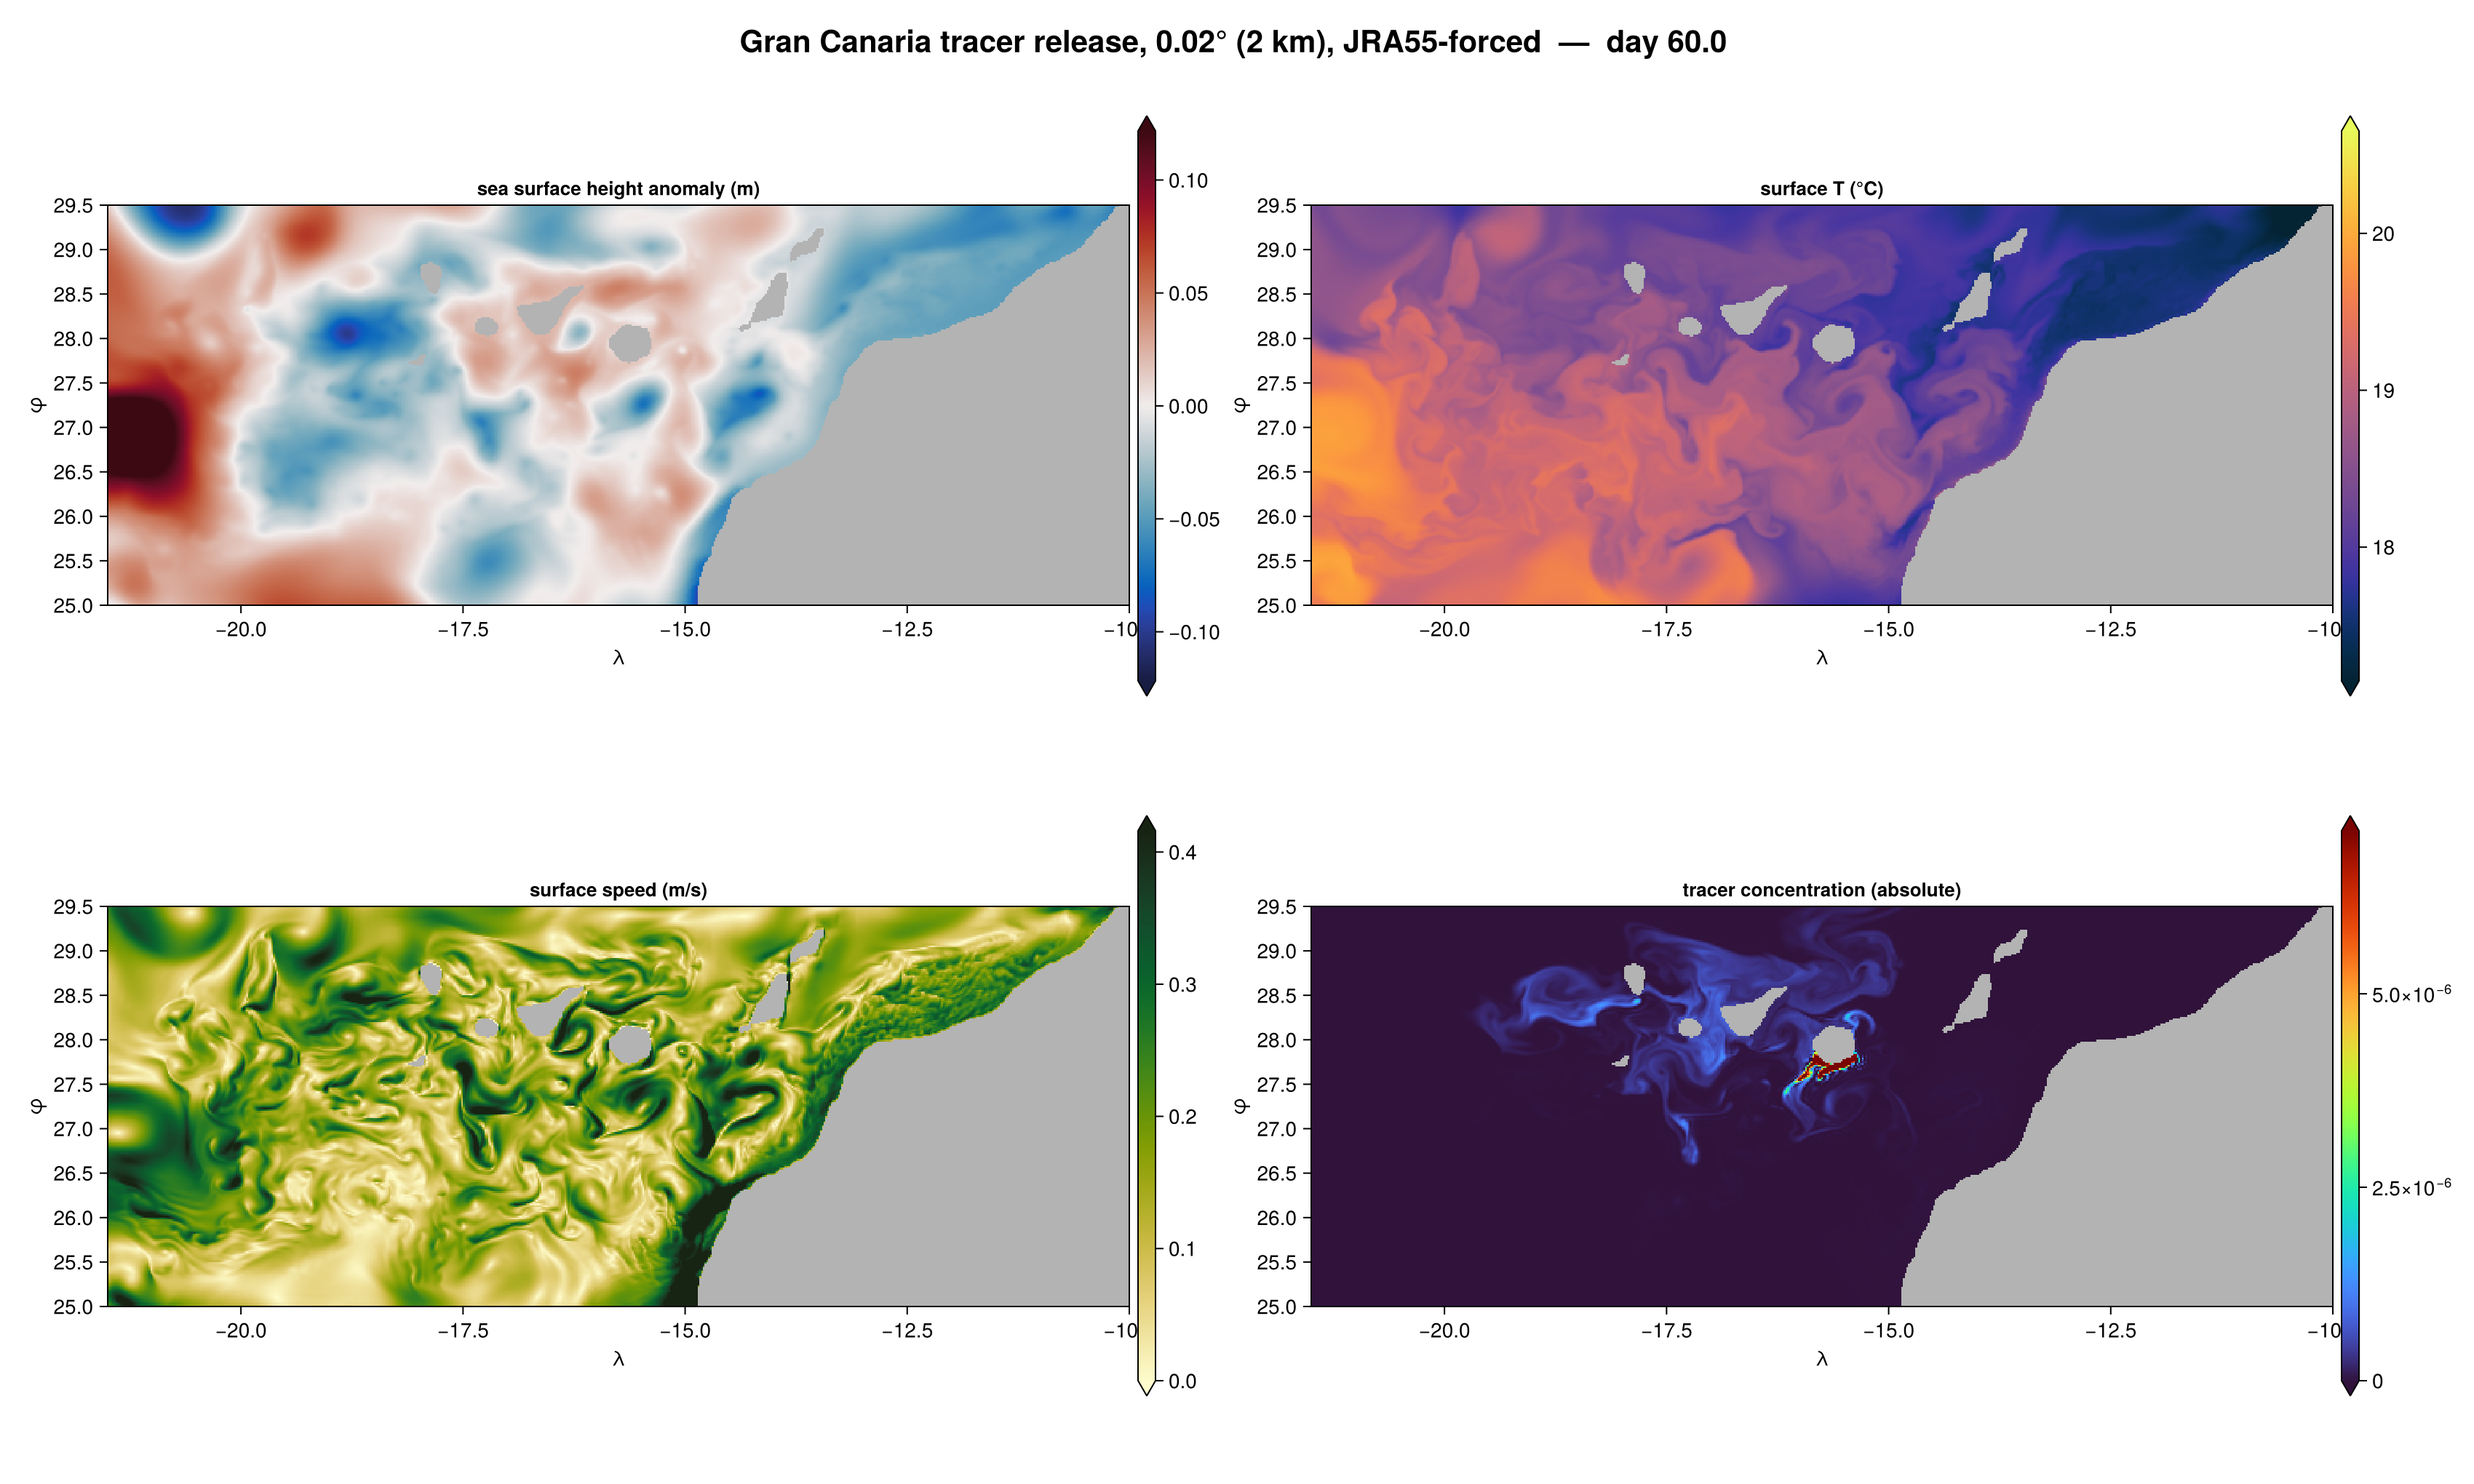
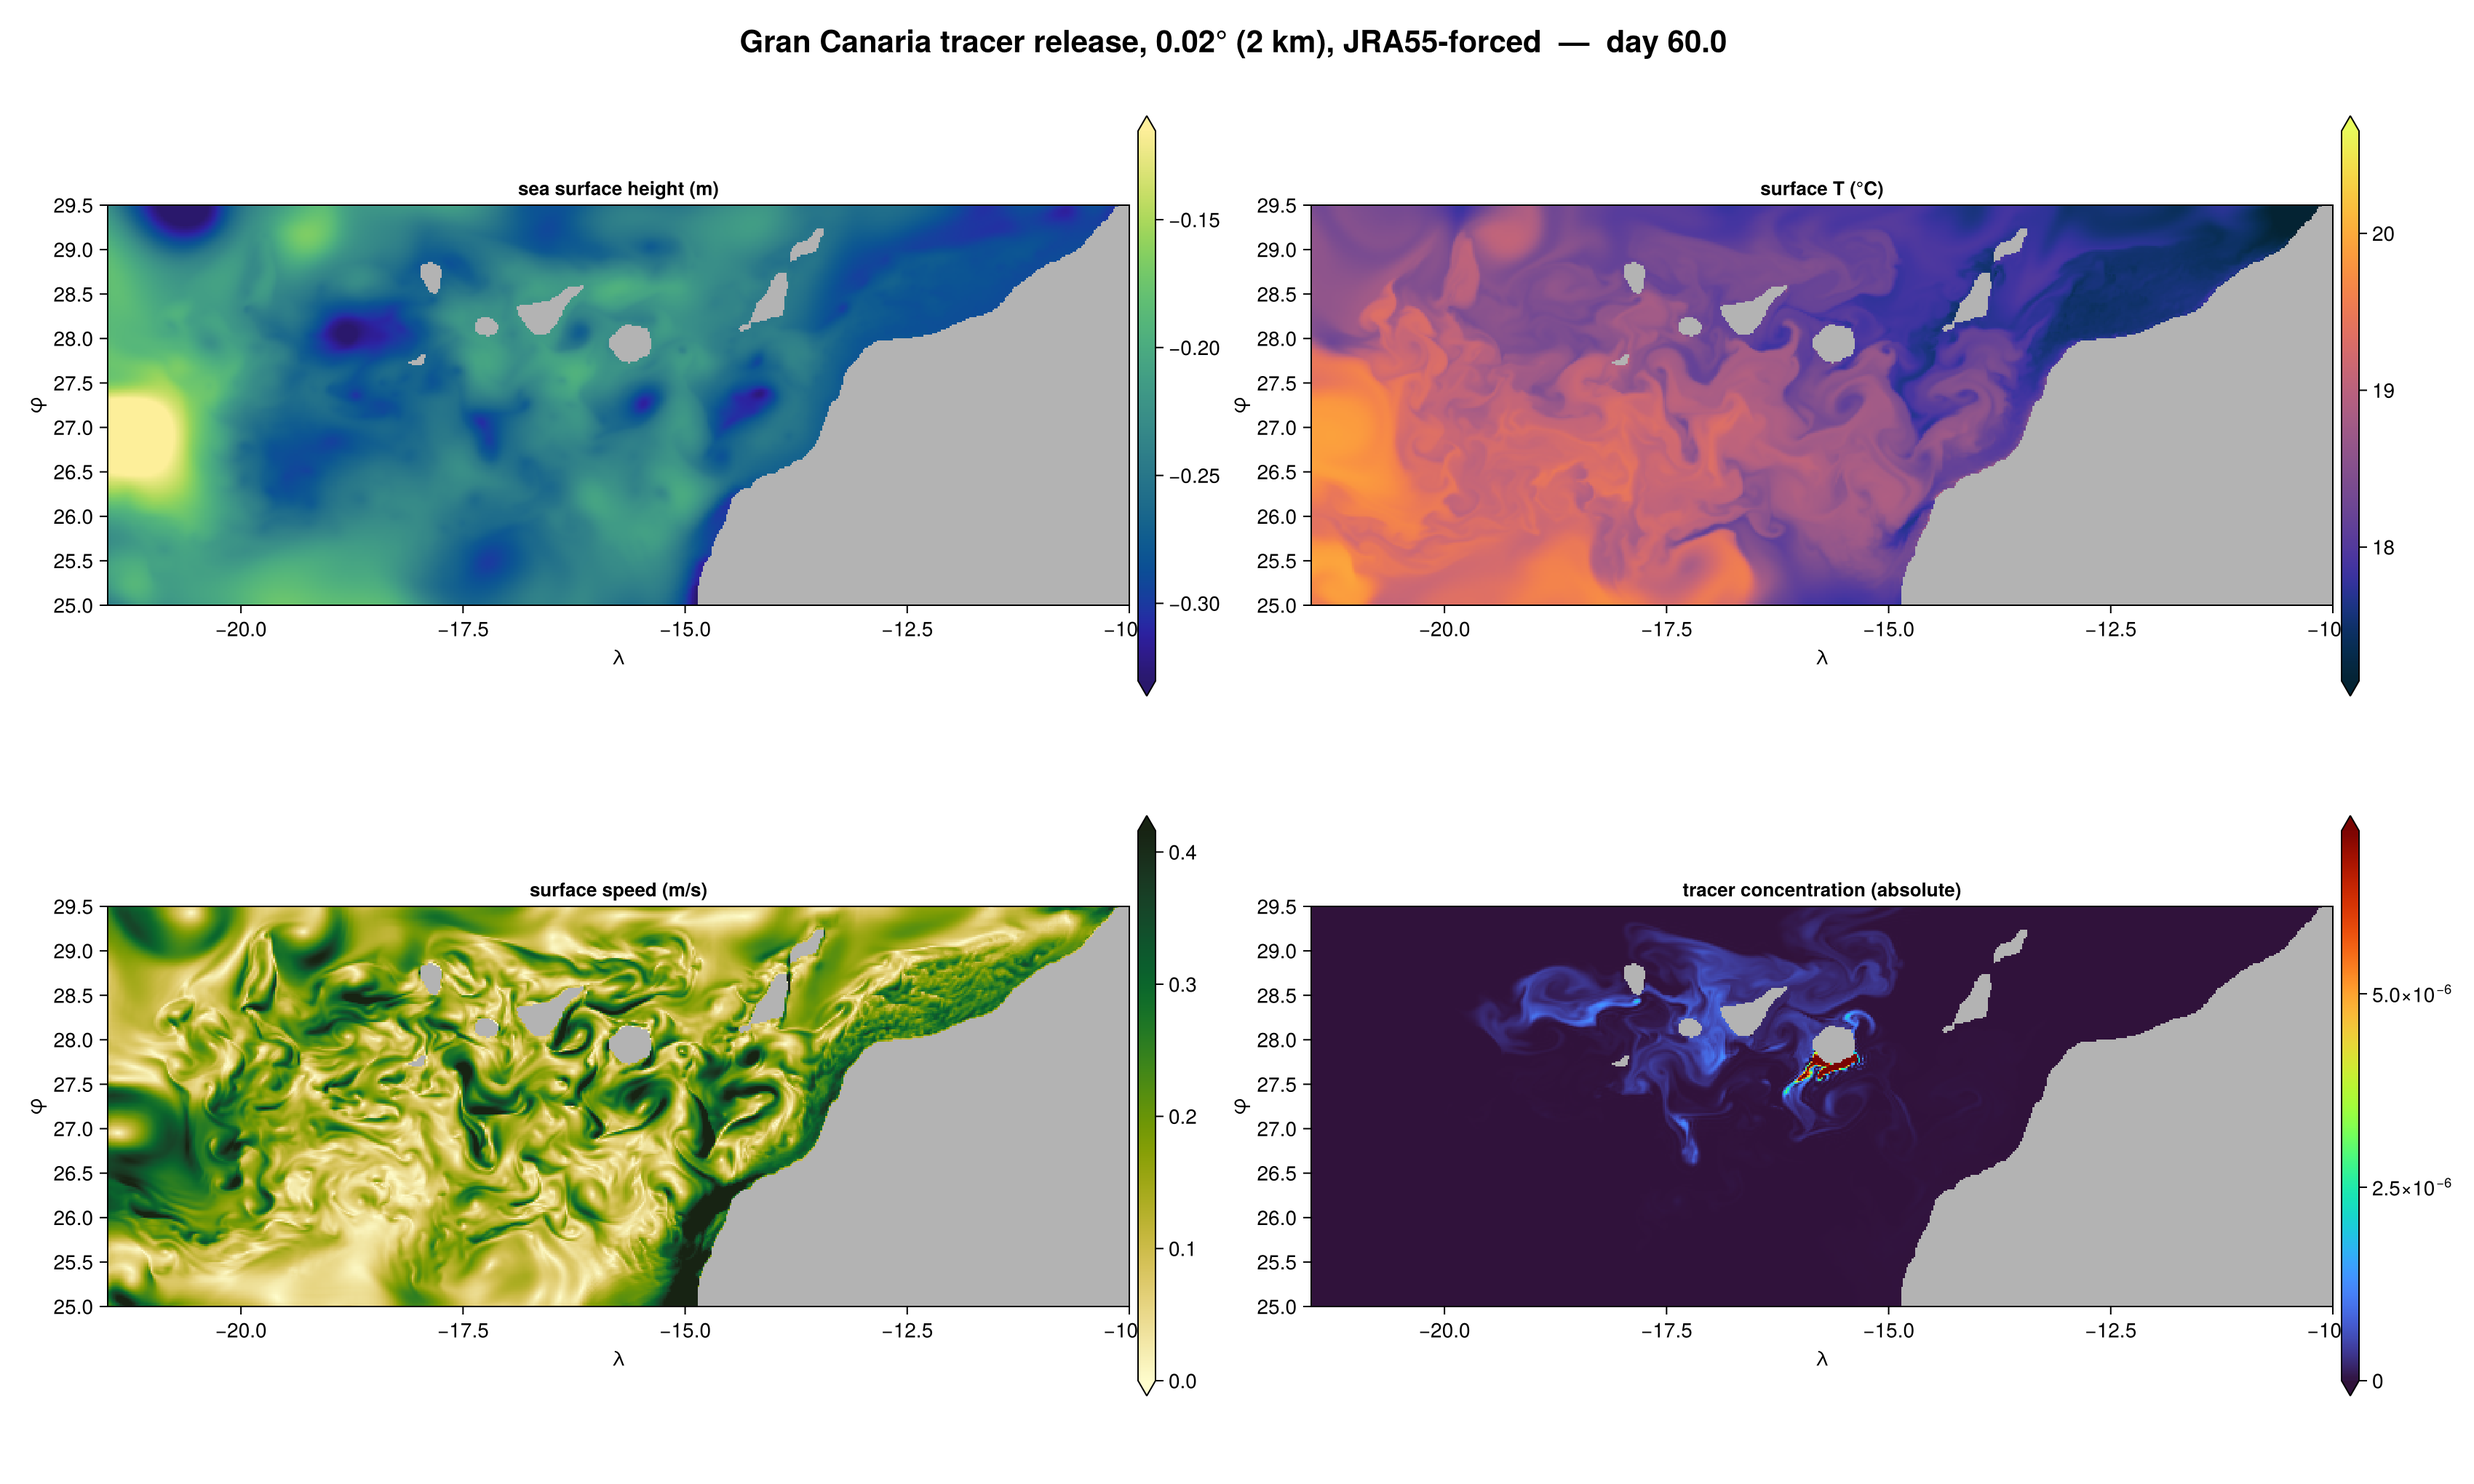
canary: absolute SSH on a sequential scale, and the recirculation finding
SSH goes back to absolute values. A diverging map centred on zero wasted half
its range on a field that barely changes sign; a sequential map over the data's
own 1-99% range shows the same eddy field without the artificial centring.

Records what the rescaled tracer panel revealed: the coastal plume tracks
north-west around Gran Canaria and Tenerife rather than south-west with the
Canary Current, matching the north-dominated boundary export. If the island wake
recirculates the release for weeks, air-sea equilibration -- a months-long
process -- may be well advanced before the tracer reaches the gyre at all, which
changes where uptake happens and how OAE efficiency is counted.

That promotes the nearshore resolution question from a refinement to something
load-bearing: a recirculation set by island wakes at 2 km is exactly what may
change at higher resolution, and it now bears on the uptake calculation rather
than only on retention.

Changed region(s): [[0.0312, 0.0926, 0.4676, 0.4324], [0.4676, 0.4015, 0.4988, 0.4324], [0.4365, 0.4324, 0.4676, 0.4632]]

diff --git a/docs/canary-domain-sizing.md b/docs/canary-domain-sizing.md
@@ -330,3 +330,26 @@ Settling it needs a controlled comparison — the same configuration at both rel
 only the release position — and ideally a resolution check. 0.01° fits the current hardware: the
 0.02° run uses 3.4 GB of the L4's 23 GB, so 4x the cells is ~14 GB, and the cost is wall-clock
 (roughly 8x) rather than capability.
+
+## The coastal plume recirculates around the islands, which may matter more than retention
+
+Rescaling the tracer panel so the dilute plume is visible (saturating at 1% of the peak — the peak is
+7.1e-4 and its own 99.995th percentile is 7.1e-5, so nearly all the mass sits in a few cells at the
+source) changes the reading of the coastal run.
+
+**The plume travels north-west, wrapping around Gran Canaria and Tenerife — not south-west with the
+Canary Current.** That is consistent with boundary export being almost entirely northward, where the
+offshore release was south-dominated. The island wake appears to recirculate the release rather than
+the mean flow carrying it downstream.
+
+If that holds, the implication runs past domain sizing. Air-sea CO₂ equilibration takes months, so
+tracer held in an island recirculation for weeks may be **substantially equilibrated before it ever
+reaches the Canary Current or the gyre**. Where uptake happens, and how OAE efficiency should be
+counted, would then look quite different from a picture in which treated water is advected promptly
+downstream.
+
+That makes the nearshore resolution question load-bearing rather than a refinement. A recirculation
+set by island wakes at 2 km is exactly the structure most likely to change at higher resolution, and
+it now bears on the uptake calculation and not merely on how much tracer stays inside the domain.
+The 1/60° comparison is the cheap test; `w` at ~109 m, which shows filamentary submesoscale motion
+strongest in the wakes and at the shelf break, is the field to compare.
